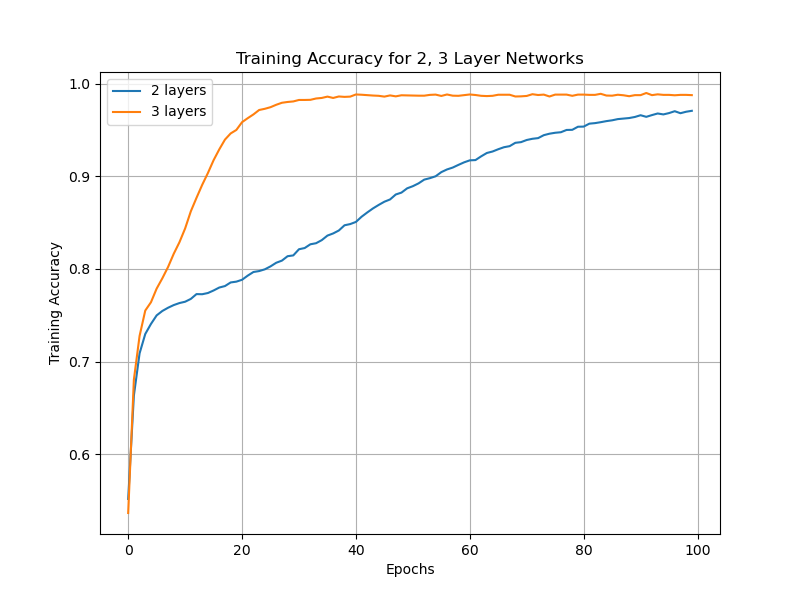
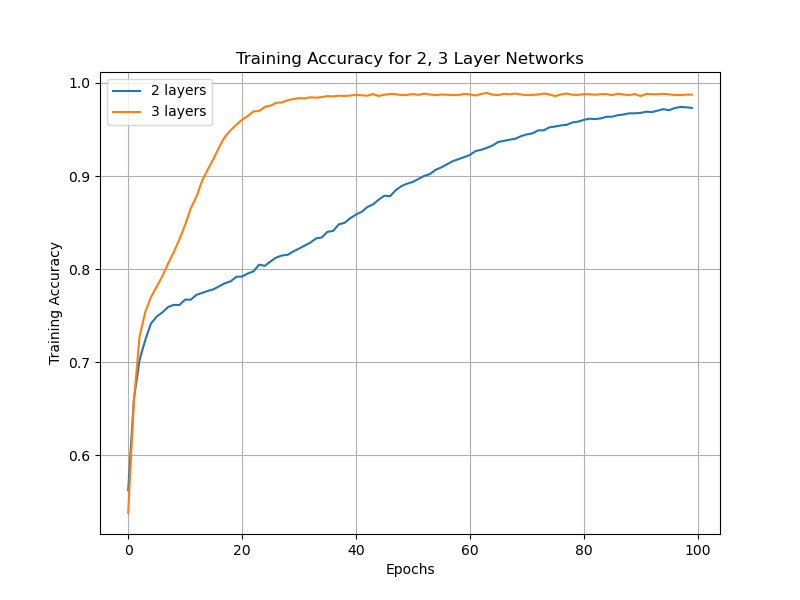
random intialization

diff --git a/CSE256_PA1_FA24/CSE256_PA1_FA24/main.py b/CSE256_PA1_FA24/CSE256_PA1_FA24/main.py
@@ -147,7 +147,7 @@ def main():
         # Start the timer to measure load time
         start_time = time.time()
 
-        # Load word embeddings
+        # Load pretrained embeddings
         word_embeddings = read_word_embeddings("data/glove.6B.300d-relativized.txt")
 
         # Load training and development datasets
@@ -158,16 +158,26 @@ def main():
         train_loader = DataLoader(train_data, batch_size=16, shuffle=True, collate_fn=train_data.collate_fn)
         test_loader = DataLoader(dev_data, batch_size=16, shuffle=False, collate_fn=dev_data.collate_fn)
 
-        embed_size = 300
-        # Train and evaluate DAN
+        print(f"Data loaded in : {time.time() - start_time} seconds")
+
+        # Train and evaluate pretrained DAN
         start_time = time.time()
-        print('DAN with Pretraining:')
-        DAN_train_accuracy, DAN_test_accuracy = experiment(DAN(embed_size=embed_size, hidden_size=100, word_embed=word_embeddings), train_loader, test_loader)
+        print("Pretrained DAN :")
+        Pretrain_DAN_train_accuracy, Pretrain_DAN_test_accuracy = experiment(DAN(embed_size=300, hidden_size=100, word_embed=word_embeddings), train_loader, test_loader)
+        print(f"Finished training in : {time.time() - start_time} seconds")
+
+        ###### Randomly initialized embeddings ######
+        print("DAN")
+        start_time = time.time()
+        DAN_train_accuracy, DAN_test_accuracy = experiment(DAN(embed_size=300, hidden_size=100, vocab_size=word_embeddings.word_indexer.__len__()), train_loader, test_loader)
+        print(f"Finished training in : {time.time() - start_time} seconds")
 
         # Plot the training and testing accuracy
         plt.figure(figsize=(8, 6))
-        plt.plot(DAN_train_accuracy, label='Training')
-        plt.plot(DAN_test_accuracy, label='Testing')
+        plt.plot(Pretrain_DAN_train_accuracy, label='Pretrained DAN Training Acc')
+        plt.plot(Pretrain_DAN_test_accuracy, label='Pretrained DAN Testing Acc')
+        plt.plot(DAN_train_accuracy, label='DAN Training Acc')
+        plt.plot(DAN_test_accuracy, label='DAN Testing Acc')
         plt.xlabel('Epochs')
         plt.ylabel('Accuracy')
         plt.title('Accuracy for training and testing')

diff --git a/CSE256_PA1_FA24/CSE256_PA1_FA24/DANmodels.py b/CSE256_PA1_FA24/CSE256_PA1_FA24/DANmodels.py
@@ -13,9 +13,10 @@ class SentimentDatasetDAN(Dataset):
         self.examples = read_sentiment_examples(infile)
         self.word_embed = word_embed
         self.labels = torch.tensor([ex.label for ex in self.examples], dtype=torch.long)
-        self.indices = [torch.tensor([self.word_embed.word_indexer.index_of(w) if self.word_embed.word_indexer.index_of(w) != -1 else self.word_embed.word_indexer.index_of("UNK")
+        self.indices = [torch.tensor([self.word_embed.word_indexer.index_of(w) if self.word_embed.word_indexer.index_of(w) != -1 
+                                      else self.word_embed.word_indexer.index_of("UNK")
                                       for w in ex.words], dtype=torch.long) for ex in self.examples]
-        
+
     def __len__(self):
         return len(self.examples)
     
@@ -29,12 +30,16 @@ class SentimentDatasetDAN(Dataset):
         return indices_padded, labels
         
 
-
 class DAN(nn.Module):
-    def __init__(self, embed_size, hidden_size, word_embed):
+    def __init__(self, embed_size, hidden_size, vocab_size=None, word_embed=None):
         super().__init__()
         # Using pretrained initialization
-        self.embeddings = word_embed.get_initialized_embedding_layer()
+        
+        if word_embed:
+            self.embeddings = word_embed.get_initialized_embedding_layer()
+        else:
+            # Initialization without pretrained
+            self.embeddings = nn.Embedding(num_embeddings=vocab_size, embedding_dim=embed_size)
 
         self.fc1 = nn.Linear(embed_size, hidden_size)
         self.fc2 = nn.Linear(hidden_size, hidden_size)
